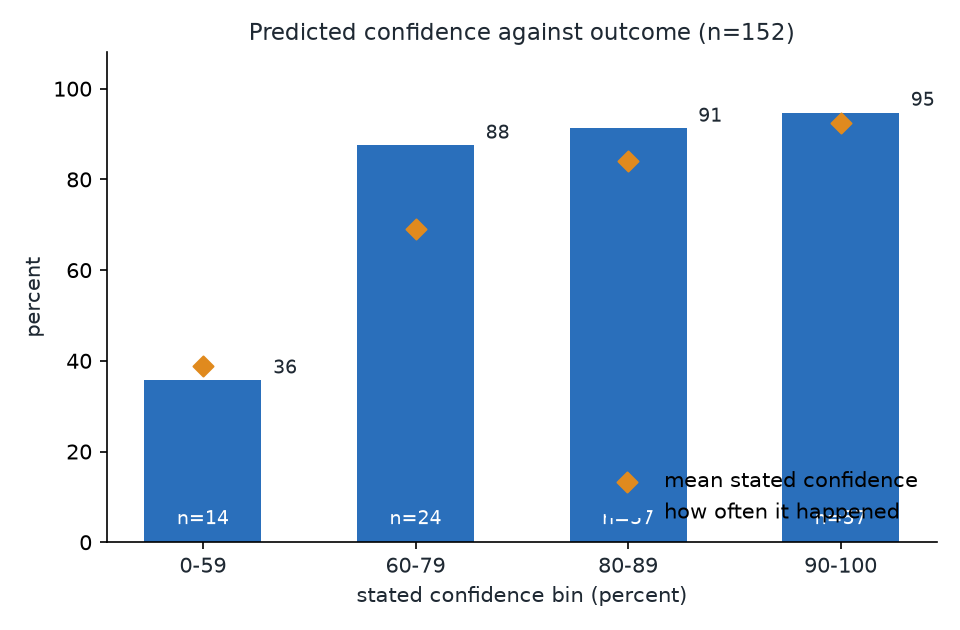
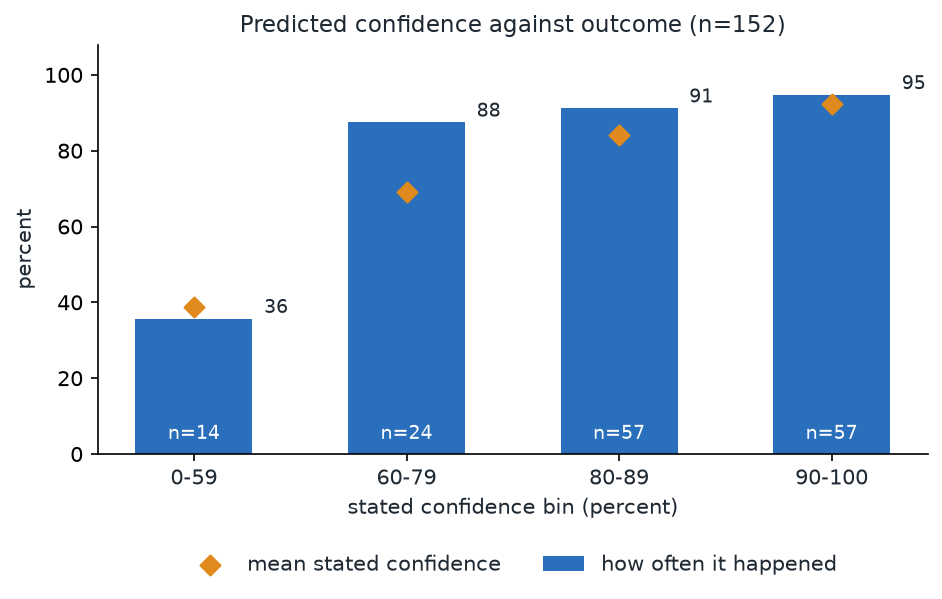
Move the calibration legend below the plot so it no longer covers the n labels
AI-assisted: drafted with Claude, checked by the author.
Claude-Session: https://claude.ai/code/session_01RGFvSa7JT2gKyScyCs7gux

Changed region(s): [[0.0, 0.0902, 0.9851, 0.9616], [0.2463, 0.0301, 0.8312, 0.0902]]

diff --git a/tools/make_figures.py b/tools/make_figures.py
@@ -69,12 +69,12 @@ def fig_calibration(rows, out):
     ax.set_xlabel("stated confidence bin (percent)", color=INK)
     ax.set_ylabel("percent", color=INK)
     ax.set_ylim(0, 108)
-    ax.legend(loc="lower right", frameon=False)
+    ax.legend(loc="upper center", bbox_to_anchor=(0.5, -0.2), ncol=2, frameon=False, labelcolor=INK)
     for side in ("top", "right"):
         ax.spines[side].set_visible(False)
     ax.set_title(f"Predicted confidence against outcome (n={len(rows)})", color=INK, fontsize=11)
     fig.tight_layout()
-    fig.savefig(out, dpi=150)
+    fig.savefig(out, dpi=150, bbox_inches="tight")
     plt.close(fig)
     for s in stats:
         print(f"calibration bin {s[0]}: n={s[1]}, mean confidence {s[2]:.1f}, event rate {s[3]:.1f}")
